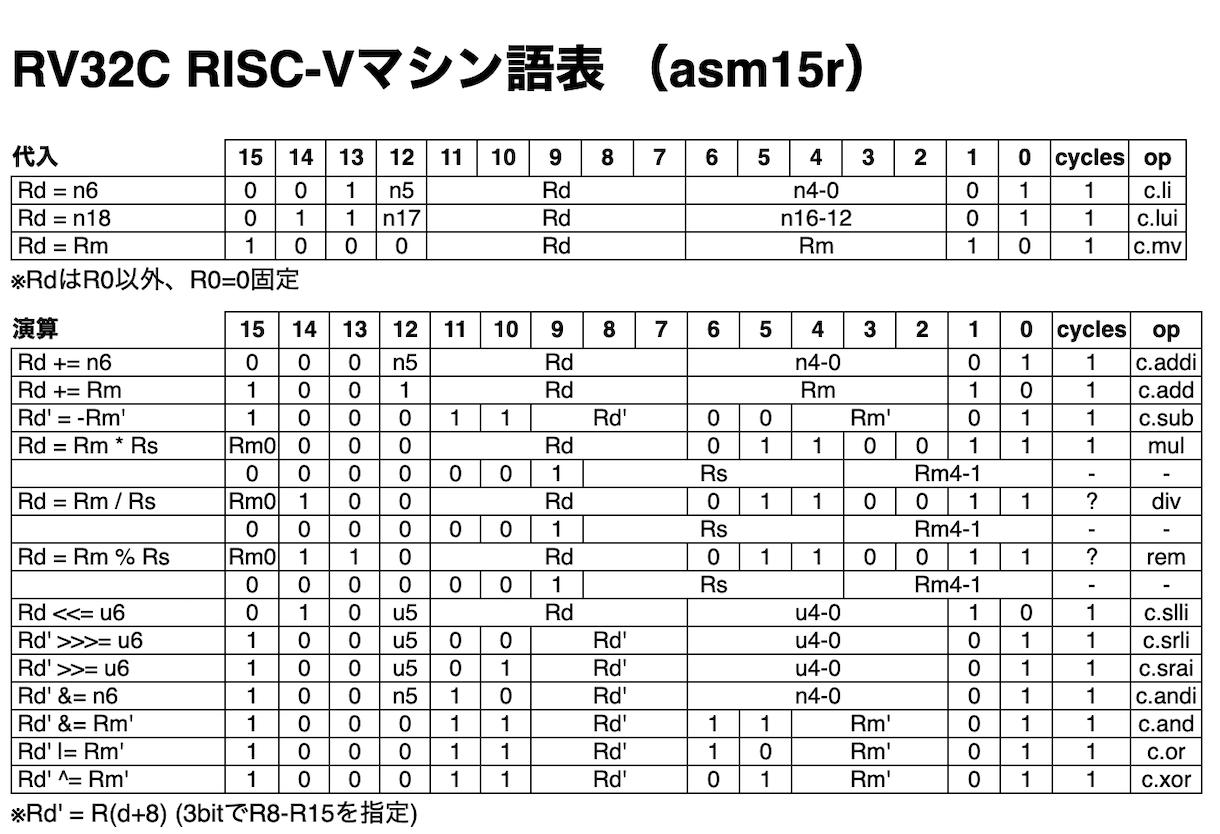
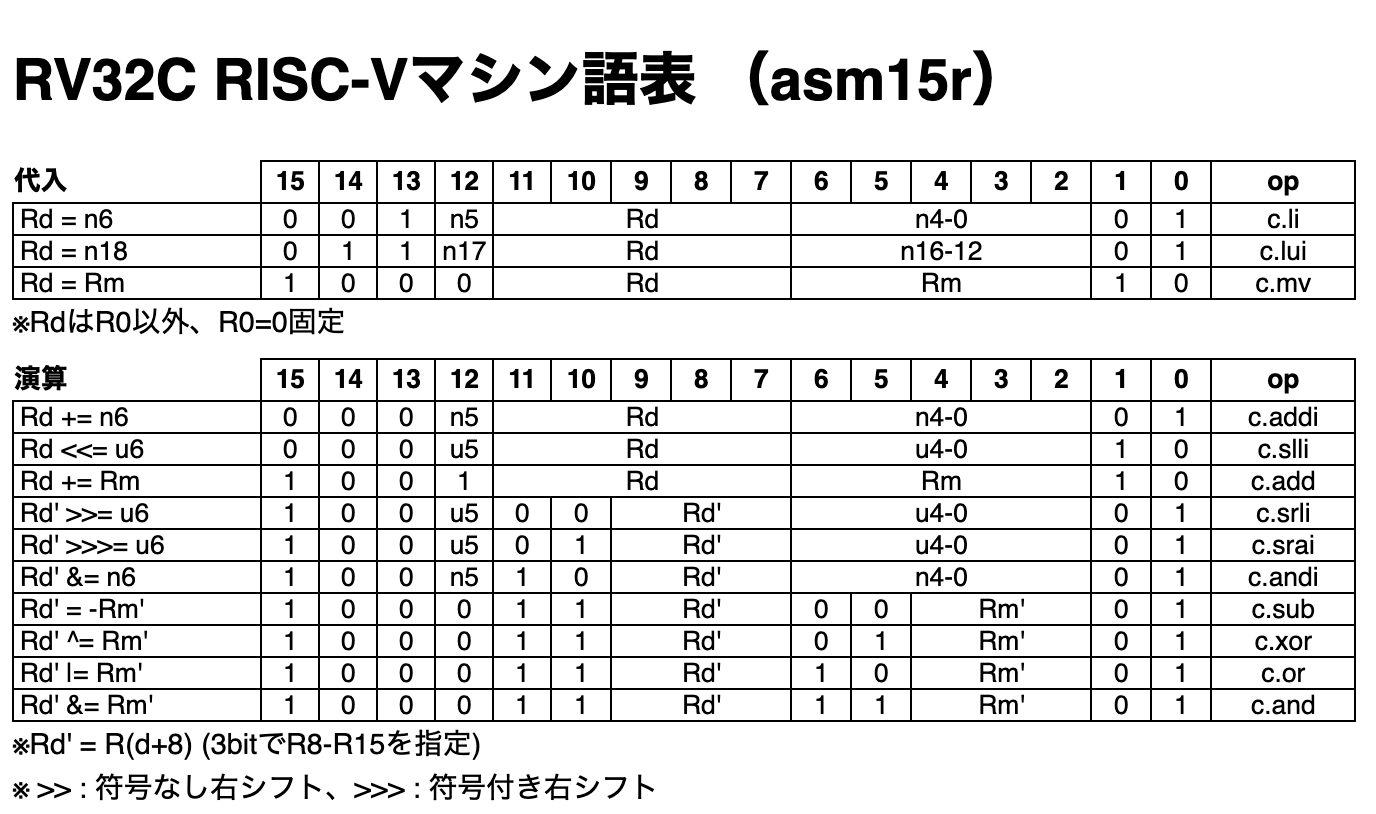
remove cycles

Changed region(s): [[0.0, 0.0307, 0.9967, 1.0]]

diff --git a/rvasm.html b/rvasm.html
@@ -24,6 +24,9 @@ body {
 	text-align: left;
 	border: none;
 }
+.tarmasm th:last-child {
+	width: 5em;
+}
 .tarmasm td {
 	text-align: center;
 	font-size: 92%;
@@ -45,10 +48,10 @@ a {
 <table id="t1188a" class=tarmasm></table>
 <script>
 makeTable("t1188a", function() {/*
-代入	15	14	13	12	11	10	9	8	7	6	5	4	3	2	1	0	cycles	op
-Rd = n6	0	0	1	n5	Rd					n4-0					0	1	1	c.li
-Rd = n18	0	1	1	n17	Rd					n16-12					0	1	1	c.lui
-Rd = Rm	1	0	0	0	Rd					Rm					1	0	1	c.mv
+代入	15	14	13	12	11	10	9	8	7	6	5	4	3	2	1	0	op
+Rd = n6	0	0	1	n5	Rd					n4-0					0	1	c.li
+Rd = n18	0	1	1	n17	Rd					n16-12					0	1	c.lui
+Rd = Rm	1	0	0	0	Rd					Rm					1	0	c.mv
 */})
 </script>
 ※RdはR0以外、R0=0固定<br>
@@ -56,17 +59,17 @@ Rd = Rm	1	0	0	0	Rd					Rm					1	0	1	c.mv
 <table id="t1188b" class=tarmasm></table>
 <script>
 makeTable("t1188b", function() {/*
-演算	15	14	13	12	11	10	9	8	7	6	5	4	3	2	1	0	cycles	op
-Rd += n6	0	0	0	n5	Rd					n4-0					0	1	1	c.addi
-Rd &lt;&lt;= u6	0	0	0	u5	Rd					u4-0					1	0	1	c.slli
-Rd += Rm	1	0	0	1	Rd					Rm					1	0	1	c.add
-Rd' &gt;&gt;= u6	1	0	0	u5	0	0	Rd'			u4-0					0	1	1	c.srli
-Rd' &gt;&gt;&gt;= u6	1	0	0	u5	0	1	Rd'			u4-0					0	1	1	c.srai
-Rd' &amp;= n6	1	0	0	n5	1	0	Rd'			n4-0					0	1	1	c.andi
-Rd' = -Rm'	1	0	0	0	1	1	Rd'			0	0	Rm'			0	1	1	c.sub
-Rd' ^= Rm'	1	0	0	0	1	1	Rd'			0	1	Rm'			0	1	1	c.xor
-Rd' |= Rm'	1	0	0	0	1	1	Rd'			1	0	Rm'			0	1	1	c.or
-Rd' &amp;= Rm'	1	0	0	0	1	1	Rd'			1	1	Rm'			0	1	1	c.and
+演算	15	14	13	12	11	10	9	8	7	6	5	4	3	2	1	0	op
+Rd += n6	0	0	0	n5	Rd					n4-0					0	1	c.addi
+Rd &lt;&lt;= u6	0	0	0	u5	Rd					u4-0					1	0	c.slli
+Rd += Rm	1	0	0	1	Rd					Rm					1	0	c.add
+Rd' &gt;&gt;= u6	1	0	0	u5	0	0	Rd'			u4-0					0	1	c.srli
+Rd' &gt;&gt;&gt;= u6	1	0	0	u5	0	1	Rd'			u4-0					0	1	c.srai
+Rd' &amp;= n6	1	0	0	n5	1	0	Rd'			n4-0					0	1	c.andi
+Rd' = -Rm'	1	0	0	0	1	1	Rd'			0	0	Rm'			0	1	c.sub
+Rd' ^= Rm'	1	0	0	0	1	1	Rd'			0	1	Rm'			0	1	c.xor
+Rd' |= Rm'	1	0	0	0	1	1	Rd'			1	0	Rm'			0	1	c.or
+Rd' &amp;= Rm'	1	0	0	0	1	1	Rd'			1	1	Rm'			0	1	c.and
 */})
 </script>
 ※Rd' = R(d+8) (3bitでR8-R15を指定)<br>
@@ -75,13 +78,13 @@ Rd' &amp;= Rm'	1	0	0	0	1	1	Rd'			1	1	Rm'			0	1	1	c.and
 <table id="t1188c" class=tarmasm></table>
 <script>
 makeTable("t1188c", function() {/*
-M拡張演算	15	14	13	12	11	10	9	8	7	6	5	4	3	2	1	0	cycles	op
-Rd = Rm * Rs	Rm0	0	0	0	Rd					0	1	1	0	0	1	1	1	mul
-	0	0	0	0	0	0	1	Rs					Rm4-1				-	-
-Rd = Rm / Rs	Rm0	1	0	0	Rd					0	1	1	0	0	1	1	?	div
-	0	0	0	0	0	0	1	Rs					Rm4-1				-	-
-Rd = Rm % Rs	Rm0	1	1	0	Rd					0	1	1	0	0	1	1	?	rem
-	0	0	0	0	0	0	1	Rs					Rm4-1				-	-
+M拡張演算	15	14	13	12	11	10	9	8	7	6	5	4	3	2	1	0	op
+Rd = Rm * Rs	Rm0	0	0	0	Rd					0	1	1	0	0	1	1	mul
+	0	0	0	0	0	0	1	Rs					Rm4-1				-
+Rd = Rm / Rs	Rm0	1	0	0	Rd					0	1	1	0	0	1	1	div
+	0	0	0	0	0	0	1	Rs					Rm4-1				-
+Rd = Rm % Rs	Rm0	1	1	0	Rd					0	1	1	0	0	1	1	rem
+	0	0	0	0	0	0	1	Rs					Rm4-1				-
 */})
 </script>
 ※mul/div/remにC命令なし、mulh,mulhsu,mulhu,divu,remuもある<br>
@@ -97,9 +100,9 @@ Rd = Rm % Rs	Rm0	1	1	0	Rd					0	1	1	0	0	1	1	?	rem
 <table id="t1479a" class=tarmasm></table>
 <script>
 makeTable("t1479a", function() {/*
-メモリアクセス	15	14	13	12	11	10	9	8	7	6	5	4	3	2	1	0	cycles	op
-Rd' = [Rn' + u7]L	0	1	0	u5-3			Rn'			u2	u6	Rd'			0	0	?	c.lw
-[Rn' + u7]L = Rd'	1	1	0	u5-3			Rn'			u2	u6	Rd'			0	0	?	c.sw
+メモリアクセス	15	14	13	12	11	10	9	8	7	6	5	4	3	2	1	0	op
+Rd' = [Rn' + u7]L	0	1	0	u5-3			Rn'			u2	u6	Rd'			0	0	c.lw
+[Rn' + u7]L = Rd'	1	1	0	u5-3			Rn'			u2	u6	Rd'			0	0	c.sw
 */})
 </script>
 ※[]後の記号でメモリサイズと符号を表す（W:2byte、L:4byte、C:符号付き1byte、S:符号付き2byte）<br>
@@ -108,13 +111,13 @@ Rd' = [Rn' + u7]L	0	1	0	u5-3			Rn'			u2	u6	Rd'			0	0	?	c.lw
 <table id="t1188d" class=tarmasm></table>
 <script>
 makeTable("t1188d", function() {/*
-分岐	15	14	13	12	11	10	9	8	7	6	5	4	3	2	1	0	cycles	op
-IF !Rs' GOTO n9	1	1	0	n8	n4-3		Rs'			n7-6		n2-1		n5	0	1	?	c.beqz
-IF Rs' GOTO n9	1	1	1	n8	n4-3		Rs'			n7-6		n2-1		n5	0	1	?	c.bnez
-GOTO n12	1	0	1	n11	n4	n9-8		n10	n6	n7	n3-1			n5	0	1	?	c.j
-GOTO Rs	1	0	0	0	Rs					0	0	0	0	0	1	0	?	c.jr
-GOSUB Rs	1	0	0	1	Rs					0	0	0	0	0	1	0	?	c.jalr
-RET (=GOTO R1)	1	0	0	0	0	0	0	0	1	0	0	0	0	0	1	0	?	c.ret?
+分岐	15	14	13	12	11	10	9	8	7	6	5	4	3	2	1	0	op
+IF !Rs' GOTO n9	1	1	0	n8	n4-3		Rs'			n7-6		n2-1		n5	0	1	c.beqz
+IF Rs' GOTO n9	1	1	1	n8	n4-3		Rs'			n7-6		n2-1		n5	0	1	c.bnez
+GOTO n12	1	0	1	n11	n4	n9-8		n10	n6	n7	n3-1			n5	0	1	c.j
+GOTO Rs	1	0	0	0	Rs					0	0	0	0	0	1	0	c.jr
+GOSUB Rs	1	0	0	1	Rs					0	0	0	0	0	1	0	c.jalr
+RET (=GOTO R1)	1	0	0	0	0	0	0	0	1	0	0	0	0	0	1	0	c.ret?
 */})
 /*
 本来はn24だけど、n22としておく、n22からn24に拡張された後がある
@@ -127,11 +130,11 @@ CALL n24 &lt;&lt; 1	1	1	1	1	0	S	n24(20-11)										-
 <table id="t1479b" class=tarmasm></table>
 <script>
 makeTable("t1479b", function() {/*
-スタック	15	14	13	12	11	10	9	8	7	6	5	4	3	2	1	0	cycles	op
-PUSH Rs,u8	1	1	0	u5-2				u7-6		Rs					1	0	?	c.swsp
-POP Rd,u8	0	1	0	u5	Rd					u4-2			u7-6		1	0	?	c.lwsp
-Rd' = SP + u10	0	0	0	u5-4		u9-6				u2	u3	Rd'			0	0	1	c.addi4spn
-SP += n10	0	1	1	n9	0	0	0	1	0	n4	n6	n8-7		n5	0	1	1	c.addi16sp
+スタック	15	14	13	12	11	10	9	8	7	6	5	4	3	2	1	0	op
+PUSH Rs,u8	1	1	0	u5-2				u7-6		Rs					1	0	c.swsp
+POP Rd,u8	0	1	0	u5	Rd					u4-2			u7-6		1	0	c.lwsp
+Rd' = SP + u10	0	0	0	u5-4		u9-6				u2	u3	Rd'			0	0	c.addi4spn
+SP += n10	0	1	1	n9	0	0	0	1	0	n4	n6	n8-7		n5	0	1	c.addi16sp
 */})
 </script>
 ※n8:4byte単位のオフセット<br>
@@ -140,11 +143,11 @@ SP += n10	0	1	1	n9	0	0	0	1	0	n4	n6	n8-7		n5	0	1	1	c.addi16sp
 <table id="t1479e" class=tarmasm></table>
 <script>
 makeTable("t1479e", function() {/*
-その他	15	14	13	12	11	10	9	8	7	6	5	4	3	2	1	0	cycles	op
-NOP (=1)	0	0	0	0	0	0	0	0	0	0	0	0	0	0	0	1	1	c.nop
-BKPT	1	0	0	1	0	0	0	0	0	0	0	0	0	0	1	0	?	c.ebreak
-WFI	0	0	0	0	0	0	0	0	0	1	1	1	0	0	1	1	?	wfi
-	0	0	0	1	0	0	0	0	0	1	0	1	0	0	0	0	-	-
+その他	15	14	13	12	11	10	9	8	7	6	5	4	3	2	1	0	op
+NOP (=1)	0	0	0	0	0	0	0	0	0	0	0	0	0	0	0	1	c.nop
+BKPT	1	0	0	1	0	0	0	0	0	0	0	0	0	0	1	0	c.ebreak
+WFI	0	0	0	0	0	0	0	0	0	1	1	1	0	0	1	1	wfi
+	0	0	0	1	0	0	0	0	0	1	0	1	0	0	0	0	-
 */})
 </script>
 ※NOP:なにもしない(no operation) R0+=0<br>
